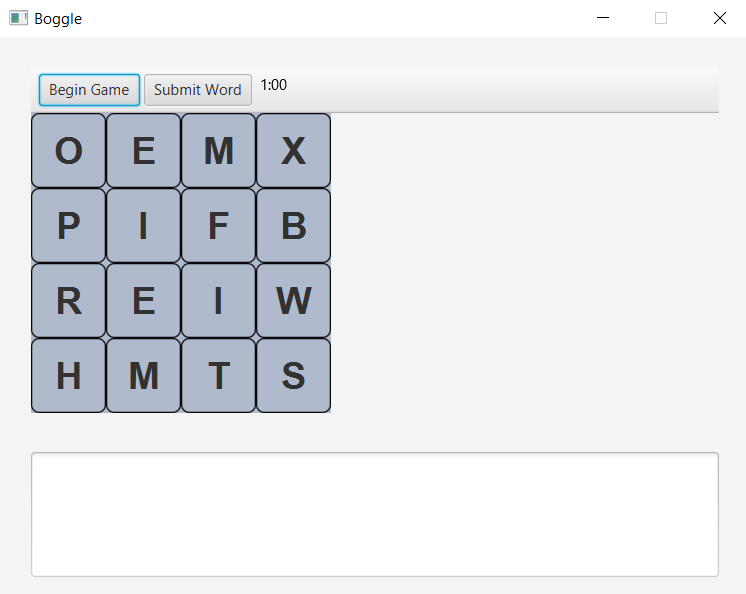
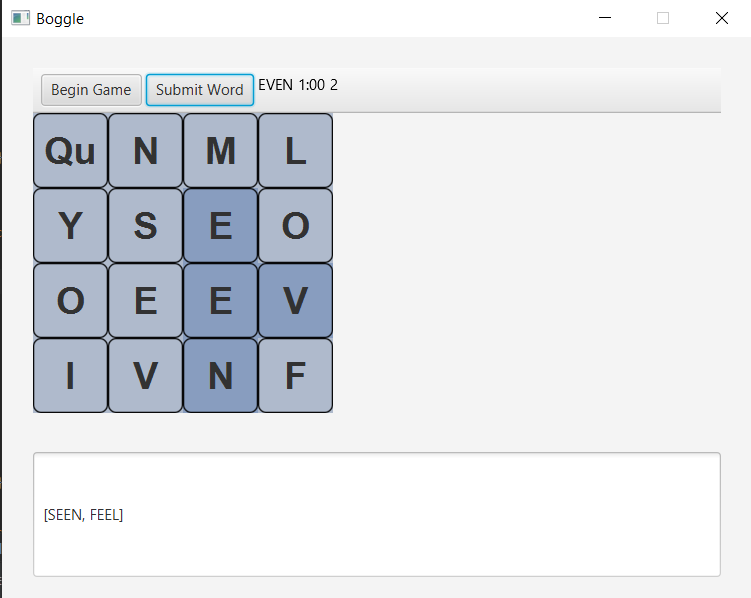
More logic

diff --git a/src/main/resources/boggle.css b/src/main/resources/boggle.css
@@ -19,6 +19,6 @@ TextField {
     -fx-min-height: 100;
 }
 
-#clicked {
+.clicked {
     -fx-background-color: #889dbf;
 }

diff --git a/src/main/java/rosenfeld/boggle/BoggleController.java b/src/main/java/rosenfeld/boggle/BoggleController.java
@@ -29,7 +29,6 @@ public class BoggleController {
 
     public void initialize() throws IOException {
         clickedLetters = new Stack<>();
-        words = new ArrayList<String>();
         game = new Game(new Dictionary());
         visited = new boolean[SIZE][SIZE];
         letterMatrix = new Label[SIZE][SIZE];
@@ -44,6 +43,7 @@ public class BoggleController {
                     if (startWord){
                         game.setLastColClicked(c);
                         game.setLastRowClicked(r);
+                        label.getStyleClass().add("clicked");
                         String letter = label.getText();
                         clickedLetters.push(letter);
                         visited[r][c] = true;
@@ -51,6 +51,7 @@ public class BoggleController {
                     } else {
                         if (game.validateTile(game.getLastRowClicked(), game.getLastColClicked(), r, c, visited)) {
                             System.out.println("valid");
+                            label.getStyleClass().add("clicked");
                             String letter = label.getText();
                             clickedLetters.push(letter);
                             visited[r][c] = true;
@@ -105,6 +106,13 @@ public class BoggleController {
         score.setText(String.valueOf(game.calculateScore()));
         visited = new boolean [SIZE][SIZE];
         startWord = true;
+        for(Label[] letterSet : letterMatrix){
+            for (Label letter : letterSet){
+                if (letter.getStyleClass().contains("clicked")){
+                    letter.getStyleClass().remove("clicked");
+                }
+            }
+        }
     }
 
     public void initializeTimer() {

diff --git a/src/main/java/rosenfeld/boggle/Game.java b/src/main/java/rosenfeld/boggle/Game.java
@@ -84,18 +84,9 @@ public class Game {
             }
         }
         return false;
-//        for (int ix = 0; ix < rowPath.length; ix++) {
-//            int newRow = row + rowPath[ix];
-//            int newCol = row + colPath[ix];
-//            if (withinBoardAndUnvisited(newRow, newCol, visited)){
-//                visited[newRow][newCol] = true;
-//                findWord(visited, newRow, newCol, word+boggleMatrix[newRow][newCol]);
-//                visited[newRow][newCol] = false;
-//            }
-//        }
     }
 
-    public int getLastRowClicked(){
+    public int getLastRowClicked() {
         return this.lastRowClicked;
     }
 
@@ -103,11 +94,11 @@ public class Game {
         return this.lastColClicked;
     }
 
-    public void setLastRowClicked (int n){
+    public void setLastRowClicked (int n) {
         lastRowClicked = n;
     }
 
-    public void setLastColClicked (int n){
+    public void setLastColClicked (int n) {
         lastColClicked = n;
     }
 }
